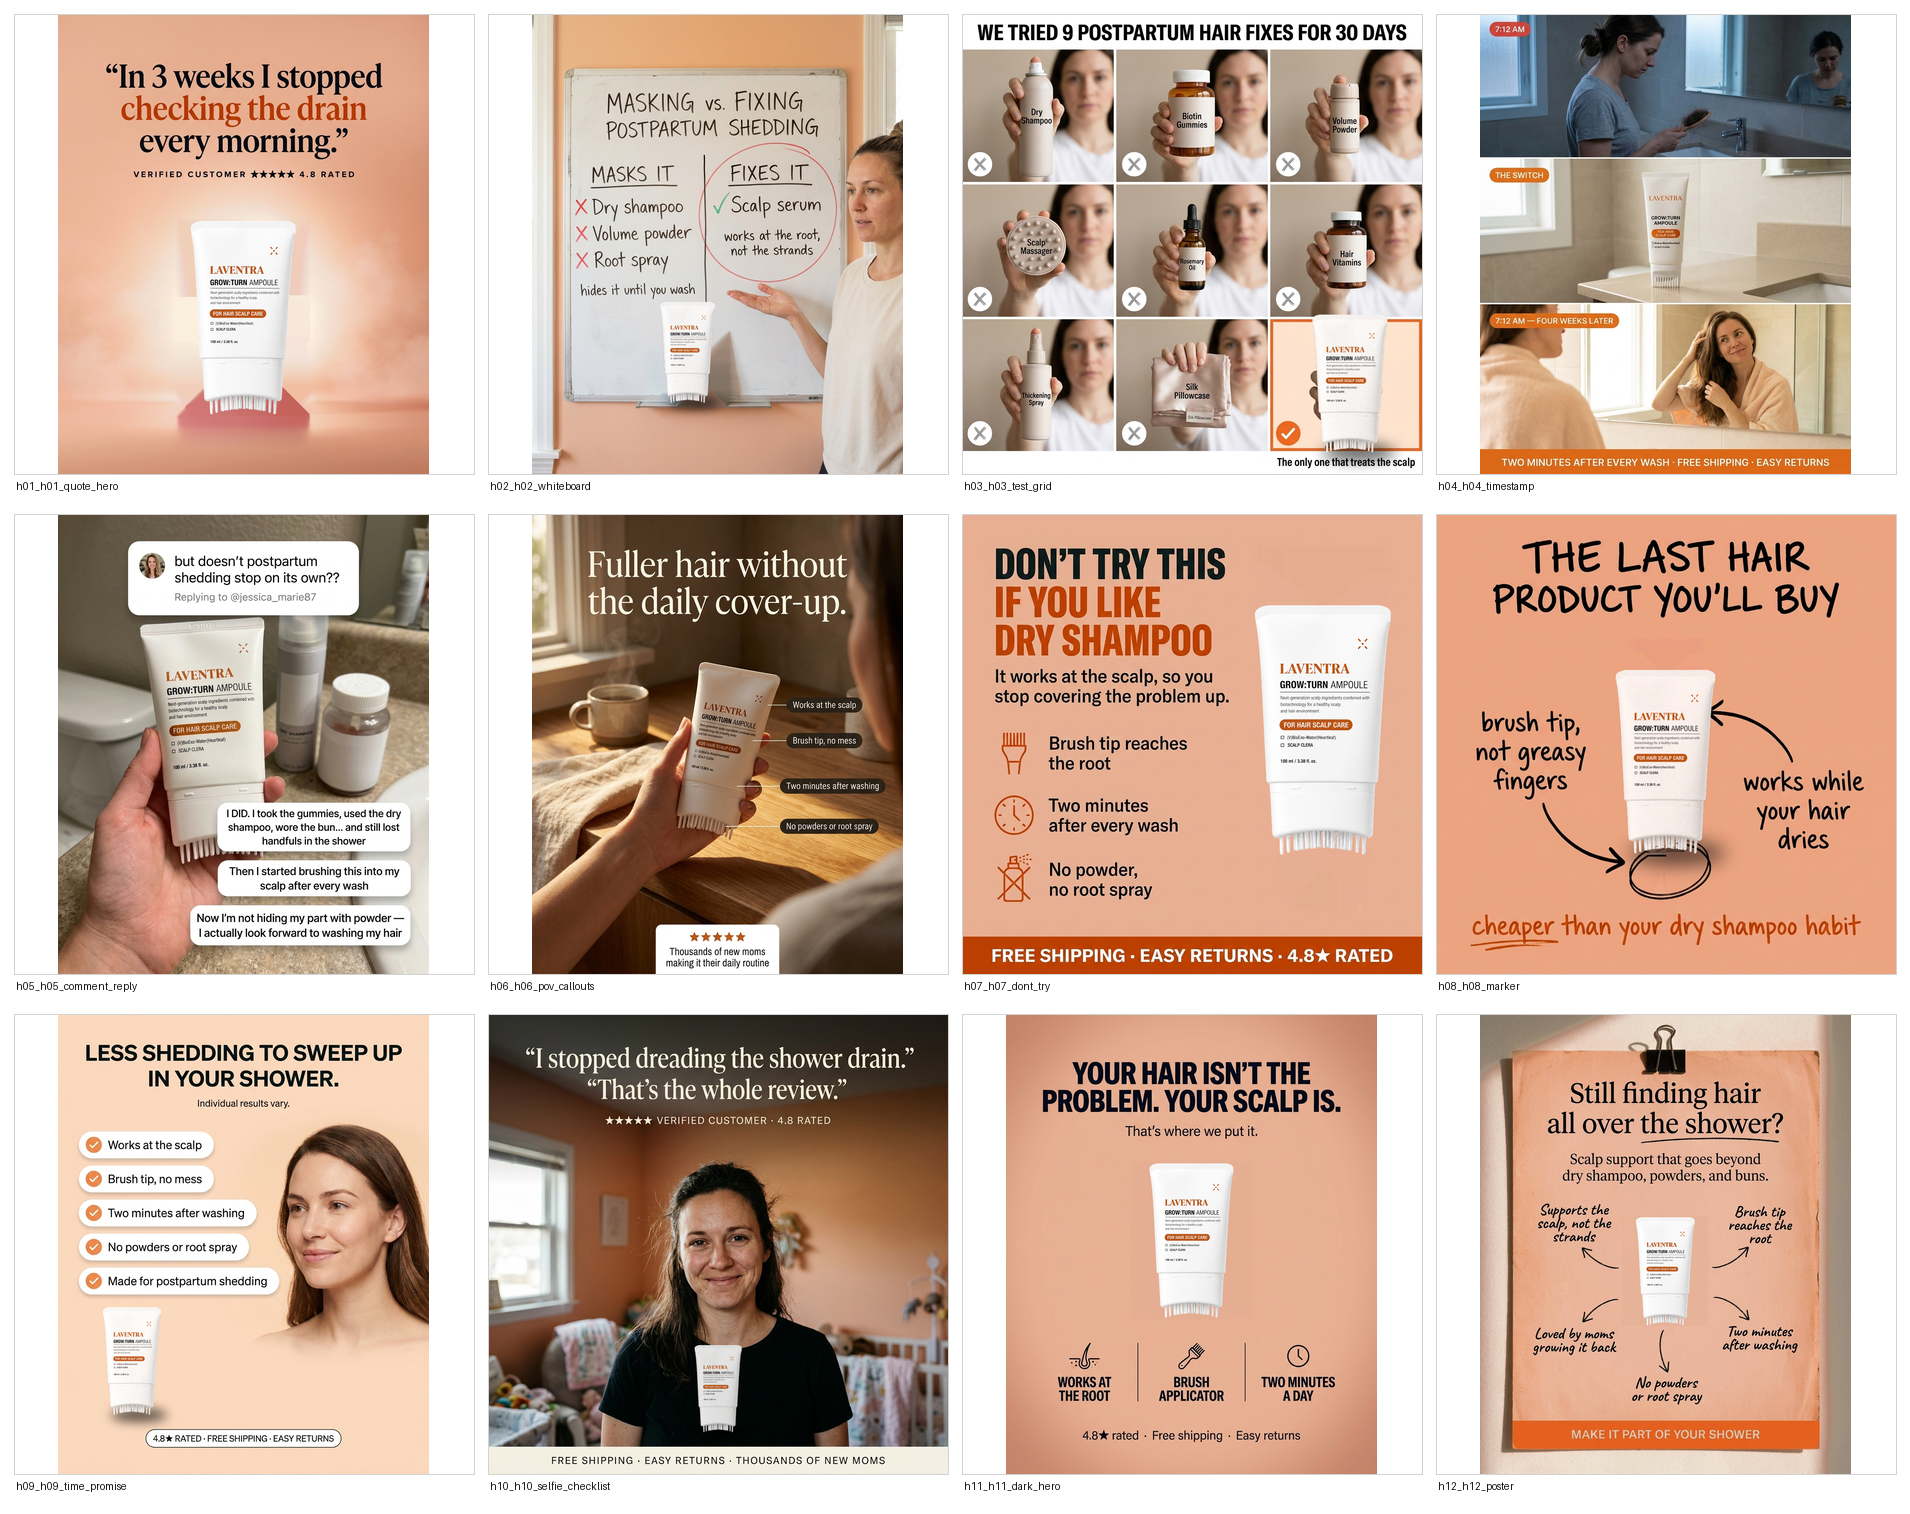
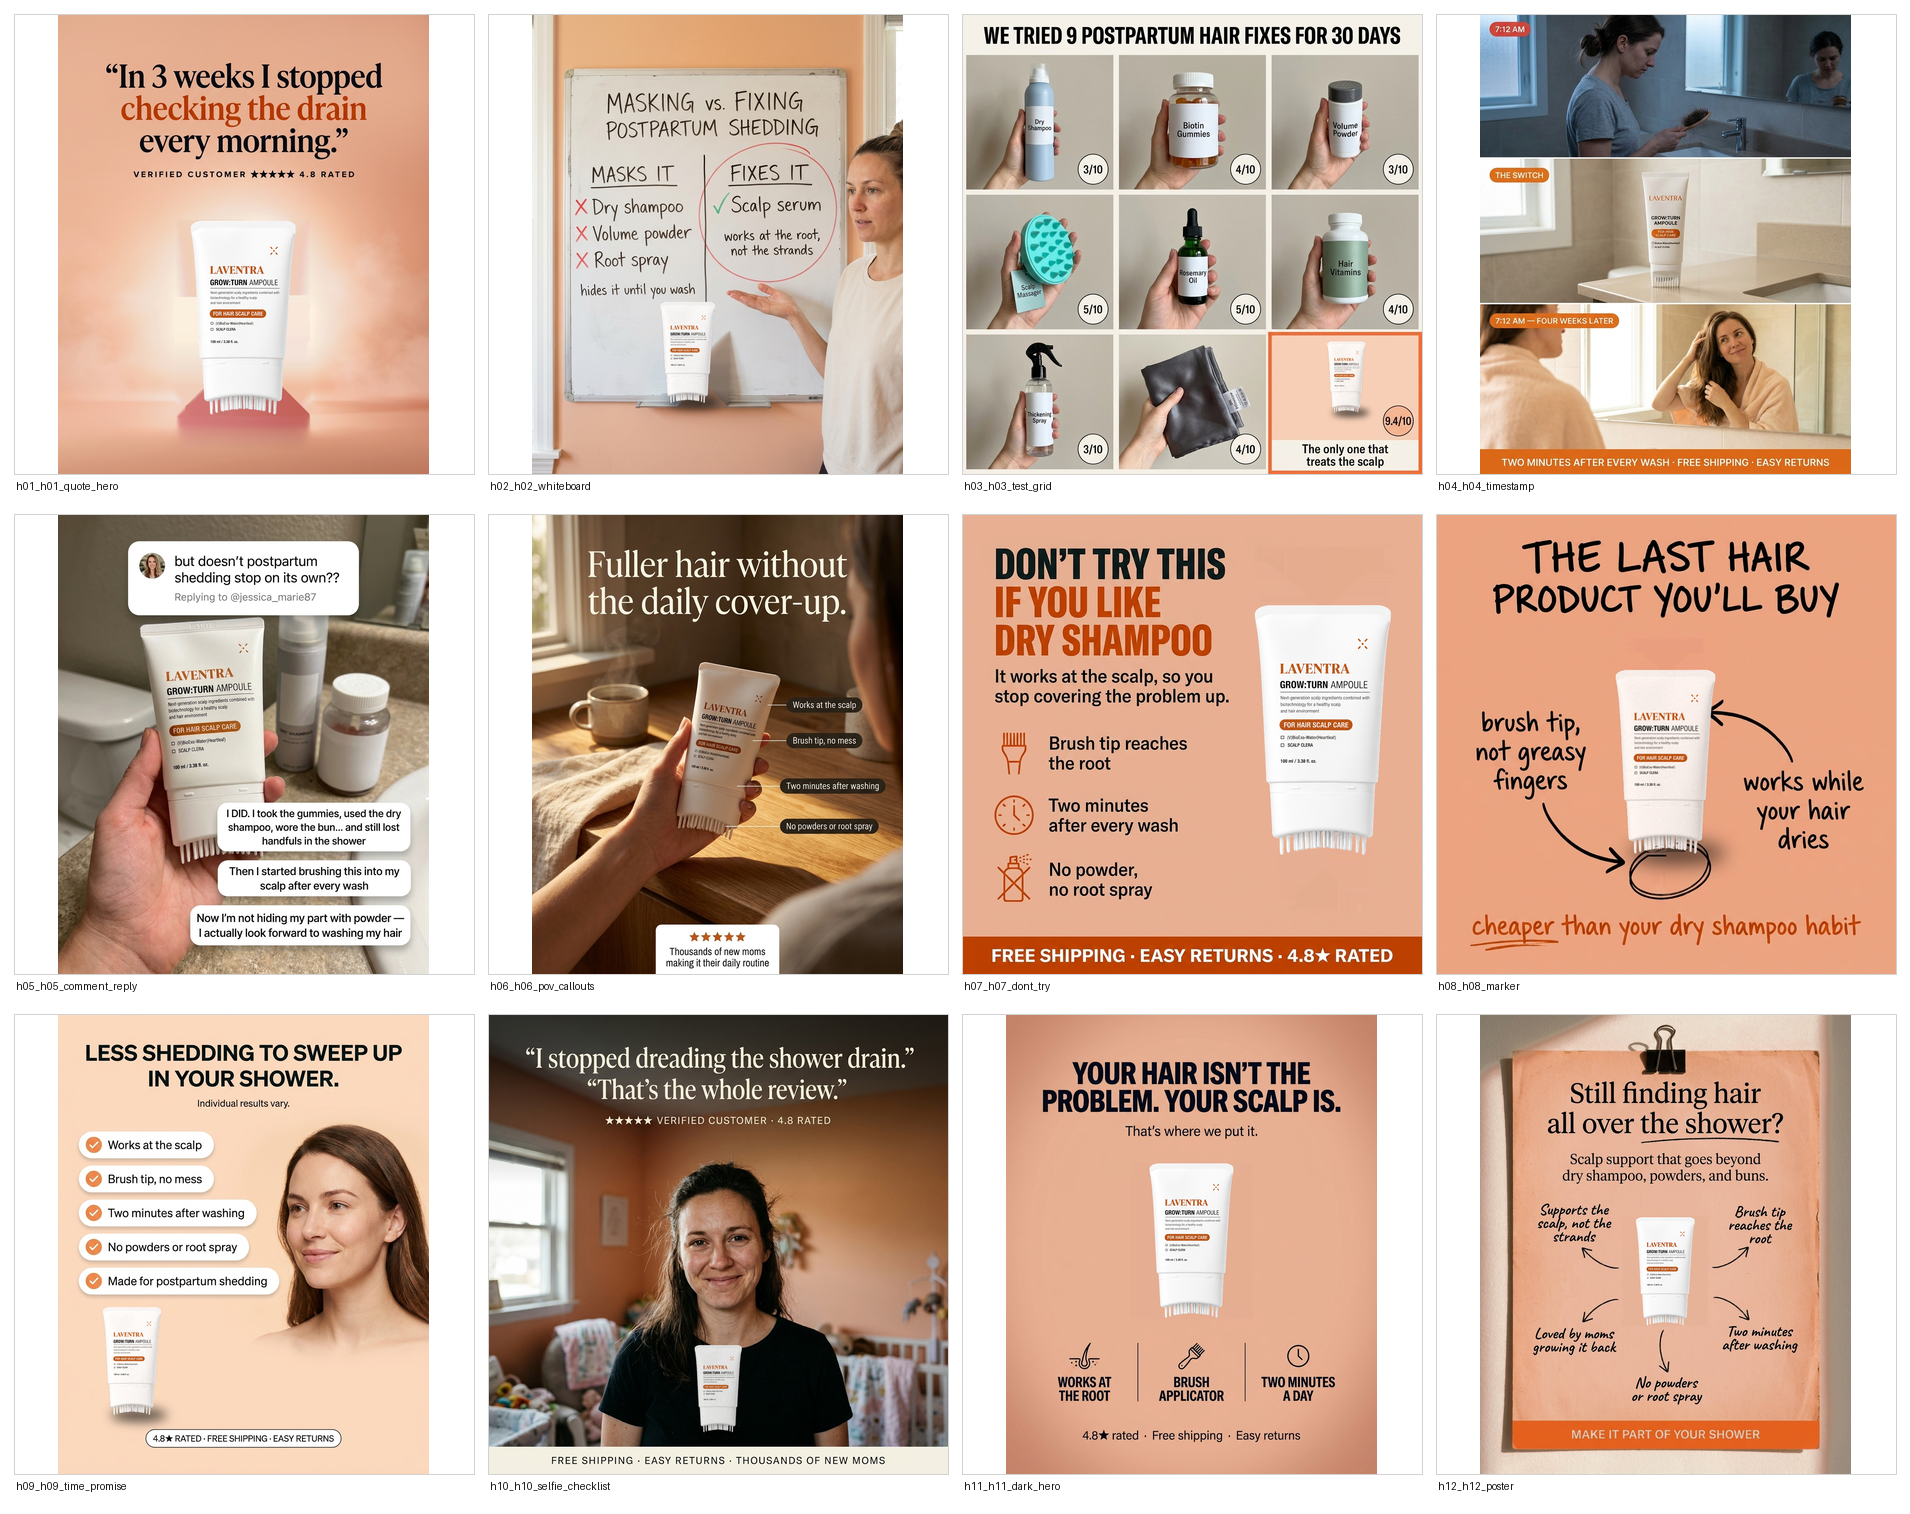
Rebuild h03 against the competitor reference: real products, no faces, scores
The comparison items still read as AI. Holding the competitor's ad next to ours
isolated why, and only one of the reasons was about the products:

- Their cells contain a hand and a product against a wall. Ours had the same
  generated face blurred behind all nine — nine copies of an AI face, and not
  even something the reference layout required.
- Theirs spans metal, glass, blister, clear plastic, satin. Ours was eight
  objects in one cream plastic: I over-obeyed my own "plain, generic, muted"
  wording and produced eight variations of a single object.
- Their labels are printed on the packaging and follow its curve. Ours were flat
  text panels floating on flat surfaces.

Worth recording: their comparison products are genericized too. Generic never
meant featureless — it meant unbranded but physically real.

Three attempts were needed, each failing differently and each worth noting:

1. The no-face instruction was ignored because ref-04 itself shows a face in
   every cell — the reference image outweighed the text until the prompt named
   the contradiction explicitly.
2. Emptying the placeholder's seating string while leaving the placeholder block
   in the prompt made the model paint magenta hands into unrelated cells. h03
   now goes through NO_PRODUCT: the winner cell is generated empty and the real
   tube is placed into it, so it lands at matched scale instead of overflowing.
3. Category names then appeared twice, printed on the product AND as a caption,
[…]

Changed region(s): [[0.4942, 0.0, 0.7414, 0.3104]]

diff --git a/.workspace/refine_batch.py b/.workspace/refine_batch.py
@@ -76,30 +76,76 @@ separate, individual X marks.
     # ── h03: eight comparison items were blank white placeholder labels ──────────
     "h03_test_grid": ("""
 
-THE EIGHT COMPARISON PRODUCTS — CRITICAL, THIS REPLACES THE LABEL DESCRIPTION ABOVE.
-Do NOT draw plain white bottles with blank white rectangles stuck on them. That reads
-as an unfinished mockup. Each of the eight is a REAL-LOOKING RETAIL PRODUCT that a
-person actually bought: correct form factor, correct materials, correct finish, and a
-properly printed label that wraps the container and follows its curve.
+THIS IS A GRID OF NINE REAL PHOTOGRAPHS. Compare against how a real product-test ad
+looks: a hand holding one object against a plain wall, shot nine times.
 
-Give each one the packaging its category really has:
-- Dry Shampoo: a tall aerosol can, matte finish, plastic cap, spray nozzle
-- Biotin Gummies: a wide amber or white plastic jar, screw lid, gummies visible inside
-- Volume Powder: a small shaker bottle with a perforated sifter top
-- Scalp Massager: a handheld silicone-bristle scalp brush, no bottle at all
-- Rosemary Oil: a small amber glass dropper bottle with a black dropper cap
-- Hair Vitamins: a supplement bottle with a printed wrap label and a white lid
-- Thickening Spray: a slim pump-spray bottle with a fine-mist trigger
-- Silk Pillowcase: a folded satin pillowcase, soft sheen, visible fabric fold
+NO PERSON, NO FACE — AND THIS CONTRADICTS THE REFERENCE IMAGE ON PURPOSE. The reference
+(image 1) shows a woman's face behind the product in every cell. DO NOT REPRODUCE THAT.
+Ignore the face in the reference completely; take only its grid geometry and badge
+placement.
 
-Each product's printed label carries ONLY its category name from the list above, set
-in ordinary small product typography as part of the printed label — never as a floating
-white box, never as a caption laid over the photo. Invent NO brand names, NO logos, NO
-slogans and NO other words. The packaging designs are plain and generic: simple type,
-one or two muted colors, nothing resembling any real-world brand.
-""", "the magenta shape is held in the hand in the bottom-right cell, at the same "
-     "scale and angle as the products in the other eight cells, with the fingers "
-     "wrapping it naturally and drawn on top of it."),
+Each cell shows ONLY a hand and forearm holding the product against a plain, softly-lit
+neutral wall. There is NO face, NO head, NO hair, NO shoulder, NO neck and NO body in
+any cell — nothing but a hand, a forearm, the product and the wall behind them. If a
+face appears anywhere in this image the result is a total failure.
+
+THE EIGHT COMPARISON PRODUCTS — these must look like eight things a real person actually
+bought, which means they DO NOT match each other. Vary the material, the form and above
+all the COLOR. Do not render them all in the same cream or beige plastic; that is the
+main thing being corrected. Each is a distinctly different object:
+
+- Dry Shampoo: a tall matte AEROSOL CAN, pale blue, metal, with a white plastic cap
+- Biotin Gummies: a wide AMBER PLASTIC JAR, white screw lid, orange gummies visible inside
+- Volume Powder: a small WHITE SHAKER BOTTLE with a perforated sifter top, dark grey cap
+- Scalp Massager: a molded SILICONE SCALP BRUSH, bright teal, soft rubber nubs, no bottle
+- Rosemary Oil: a small DARK GREEN GLASS DROPPER BOTTLE, black rubber dropper bulb
+- Hair Vitamins: a white opaque SUPPLEMENT BOTTLE, sage green wrap label, white lid
+- Thickening Spray: a slim CLEAR PLASTIC PUMP SPRAY, liquid visible inside, black trigger
+- Silk Pillowcase: a folded CHARCOAL GREY SATIN pillowcase with a visible sheen and fold
+
+Materials must read specifically: metal reflects, glass has depth and a highlight,
+clear plastic shows the liquid inside with a meniscus, silicone is matte and soft,
+satin has a directional sheen.
+
+LABEL TEXT — EACH CATEGORY NAME APPEARS EXACTLY ONCE IN THE ENTIRE IMAGE. It is
+PRINTED ONTO its own product's label, in small dark product typography, wrapping the
+container and following its curve.
+
+Do NOT also write it as a caption. There are NO caption strips, NO text rows, NO labels
+above, below, beside or between the cells, and no repeated words anywhere. The previous
+attempt printed "Thickening Spray" and "Silk Pillowcase" twice each — once on the
+product and again as a caption — which is a duplication failure.
+
+The ONLY text in this image is: the headline at the very top, one category name printed
+on each of the eight products, the nine score badges, and the one short caption beneath
+the ninth cell. Nothing else.
+
+For the Scalp Massager and the Silk Pillowcase, which have no bottle to print on, place
+the name on a small printed hang-tag or care-label attached to the object itself — still
+part of the object, never a caption. No label may be blank.
+
+Each label carries ONLY its category name from the list above. Invent NO brand names,
+NO logos, NO slogans, NO other words.
+
+Let each cell's wall vary very slightly in tone and shadow, as separate photographs
+taken on different days would.
+
+SCORE BADGES — every cell carries a small round WHITE badge with a thin dark outline in
+its lower-right corner, containing a score in ordinary dark type. The eight scores read
+exactly, one per cell in this order: "3/10", "4/10", "3/10", "5/10", "5/10", "4/10",
+"3/10", "4/10". The ninth cell's badge reads exactly "9.4/10".
+
+There are NO cross marks, NO X marks and NO check marks anywhere. The badges contain
+only the score text.
+
+THE NINTH CELL is the winner: outlined with a thick brand-orange border and washed with
+a soft peach tint. It contains NO product, NO hand, NO forearm and NO object of any
+kind — it is the plain tinted wall alone, completely empty, with its score badge in the
+lower-right corner and the short caption beneath the grid. That empty space is reserved.
+
+Do not sketch, outline or suggest a hand there. The previous attempt drew a cartoon
+outline of a hand in this cell; the cell must be genuinely empty.
+""", ""),
 
     # ── h04: middle-panel product didn't match the room; pink slab on the counter ─
     "h04_timestamp": ("""
@@ -200,6 +246,18 @@ objects, not vague AI shapes.
 # rescue. For these, no product is drawn at all: the scene is generated with clear space
 # and the real tube is composited into it, so there is nothing to remove and no residue.
 NO_PRODUCT = {
+    "h03_test_grid": """
+
+PRODUCT — DO NOT DRAW IT, AND DO NOT DRAW ANY PLACEHOLDER. There is no magenta shape
+anywhere in this image. Nothing in any cell is magenta, pink, purple or violet.
+
+The ninth cell (bottom-right) is EMPTY: the plain peach-tinted wall alone, inside its
+brand-orange border, with its score badge in the lower-right corner. No product, no
+hand, no forearm, no outline and no object of any kind in that cell. That space is
+reserved and must stay clear.
+
+The other eight cells each contain their hand and their product exactly as described.
+""",
     "h04_timestamp": """
 
 PRODUCT — DO NOT DRAW IT. There is NO product, NO tube, NO bottle and NO container
